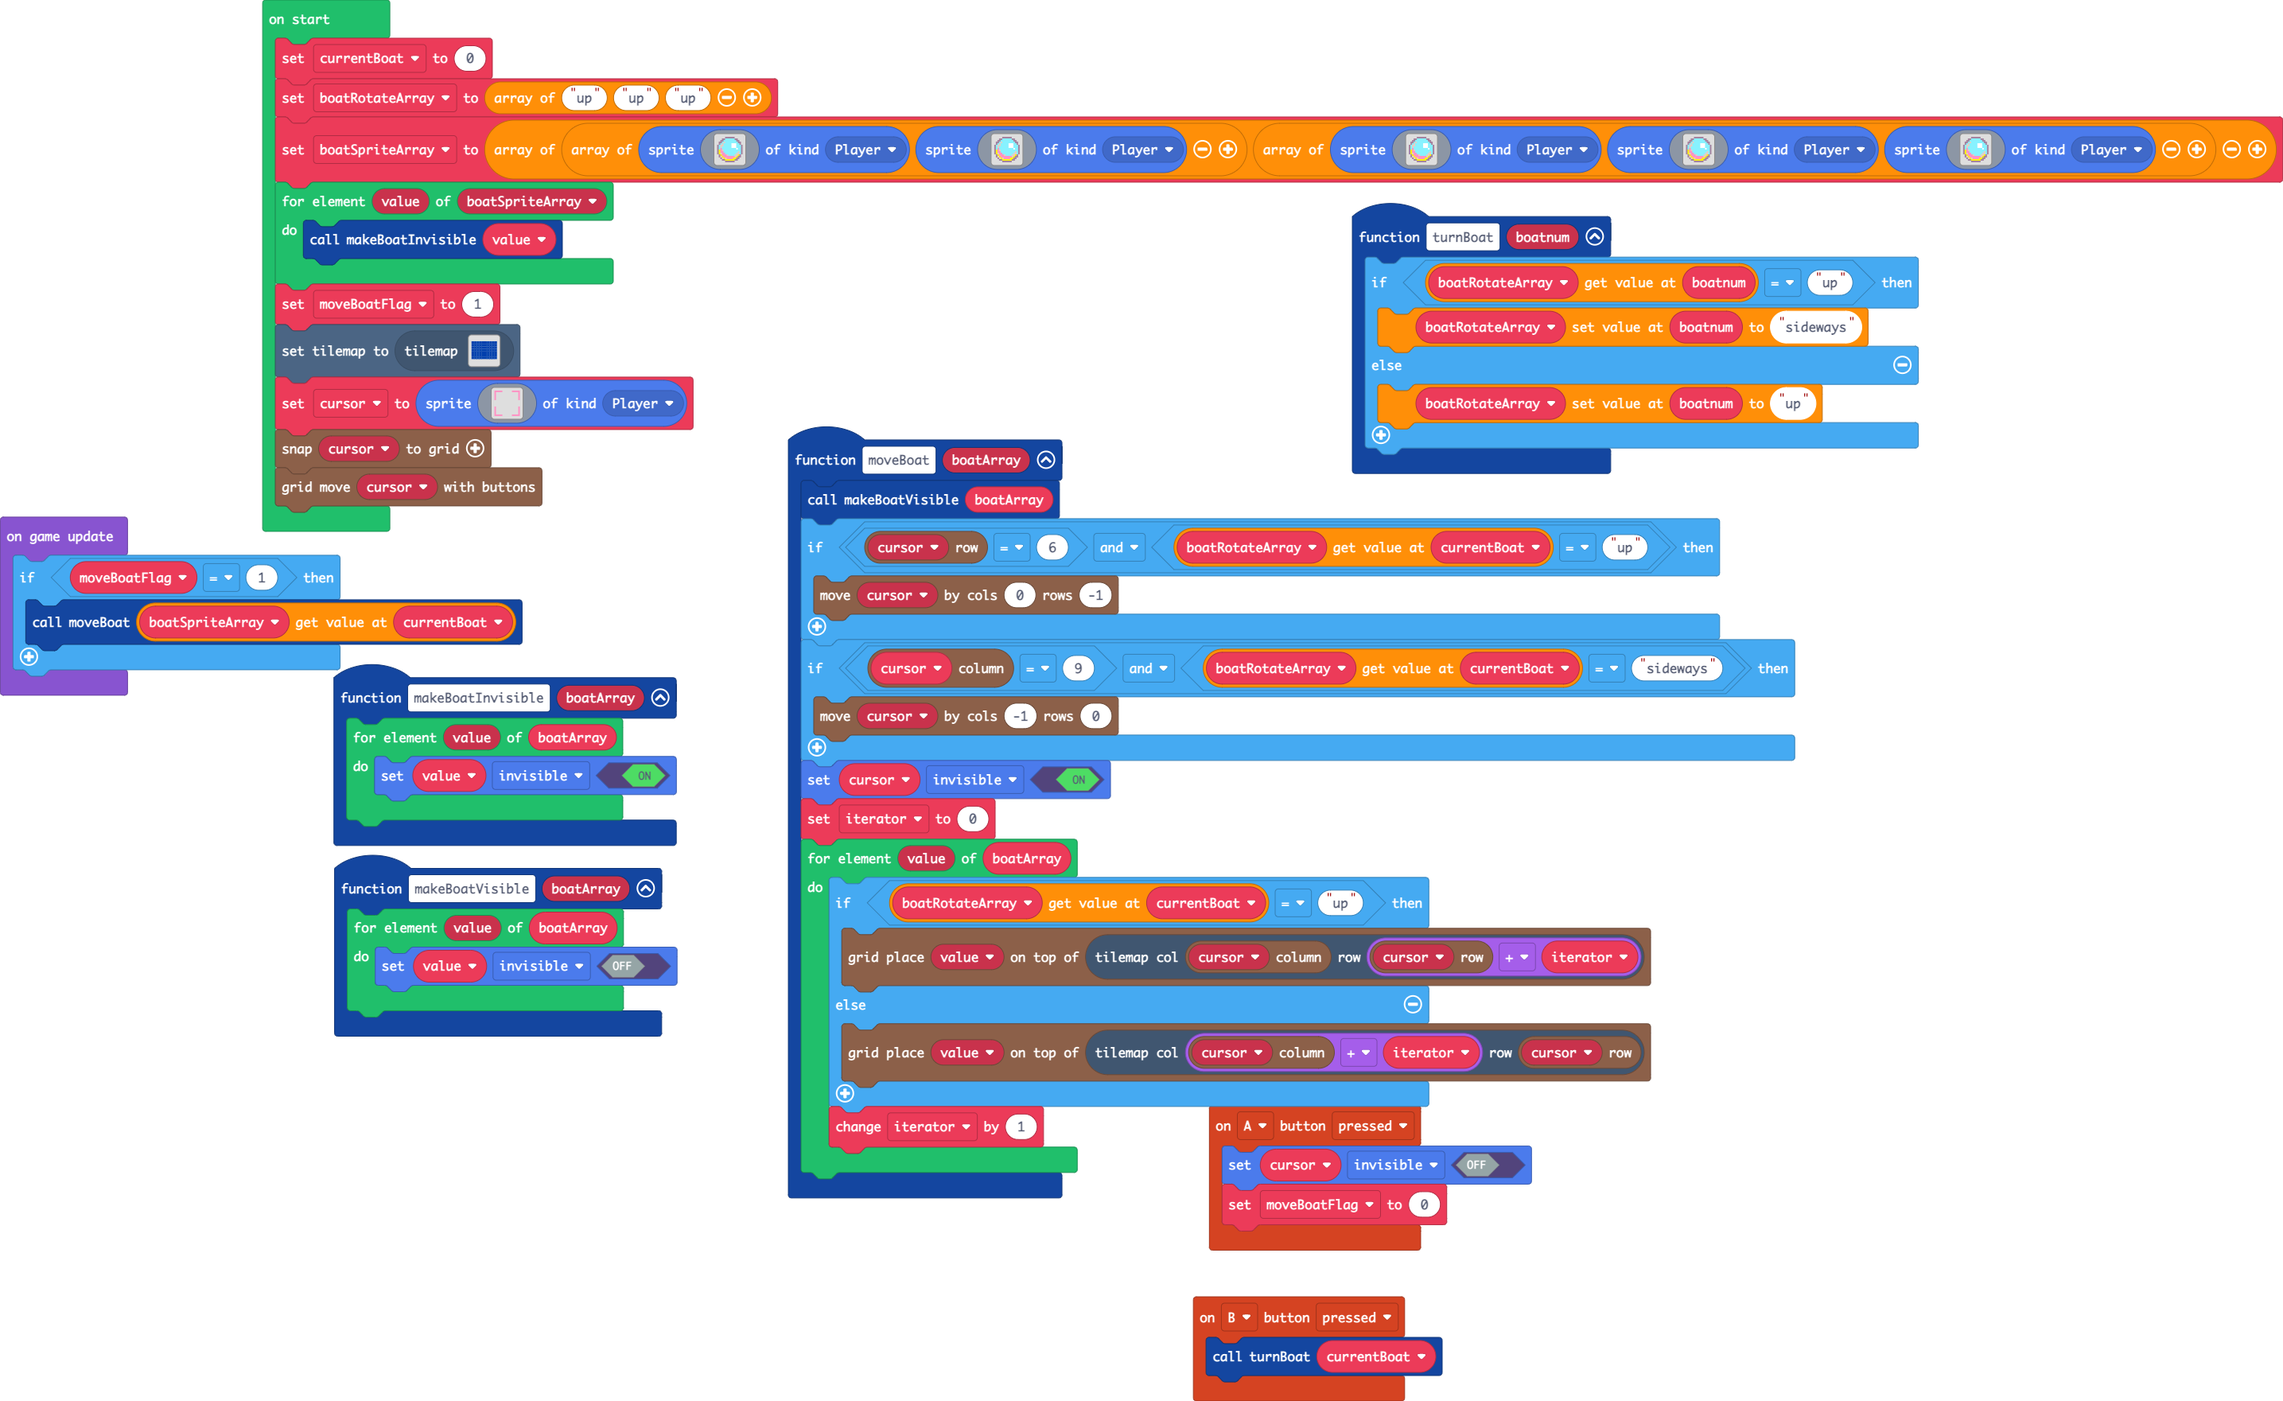
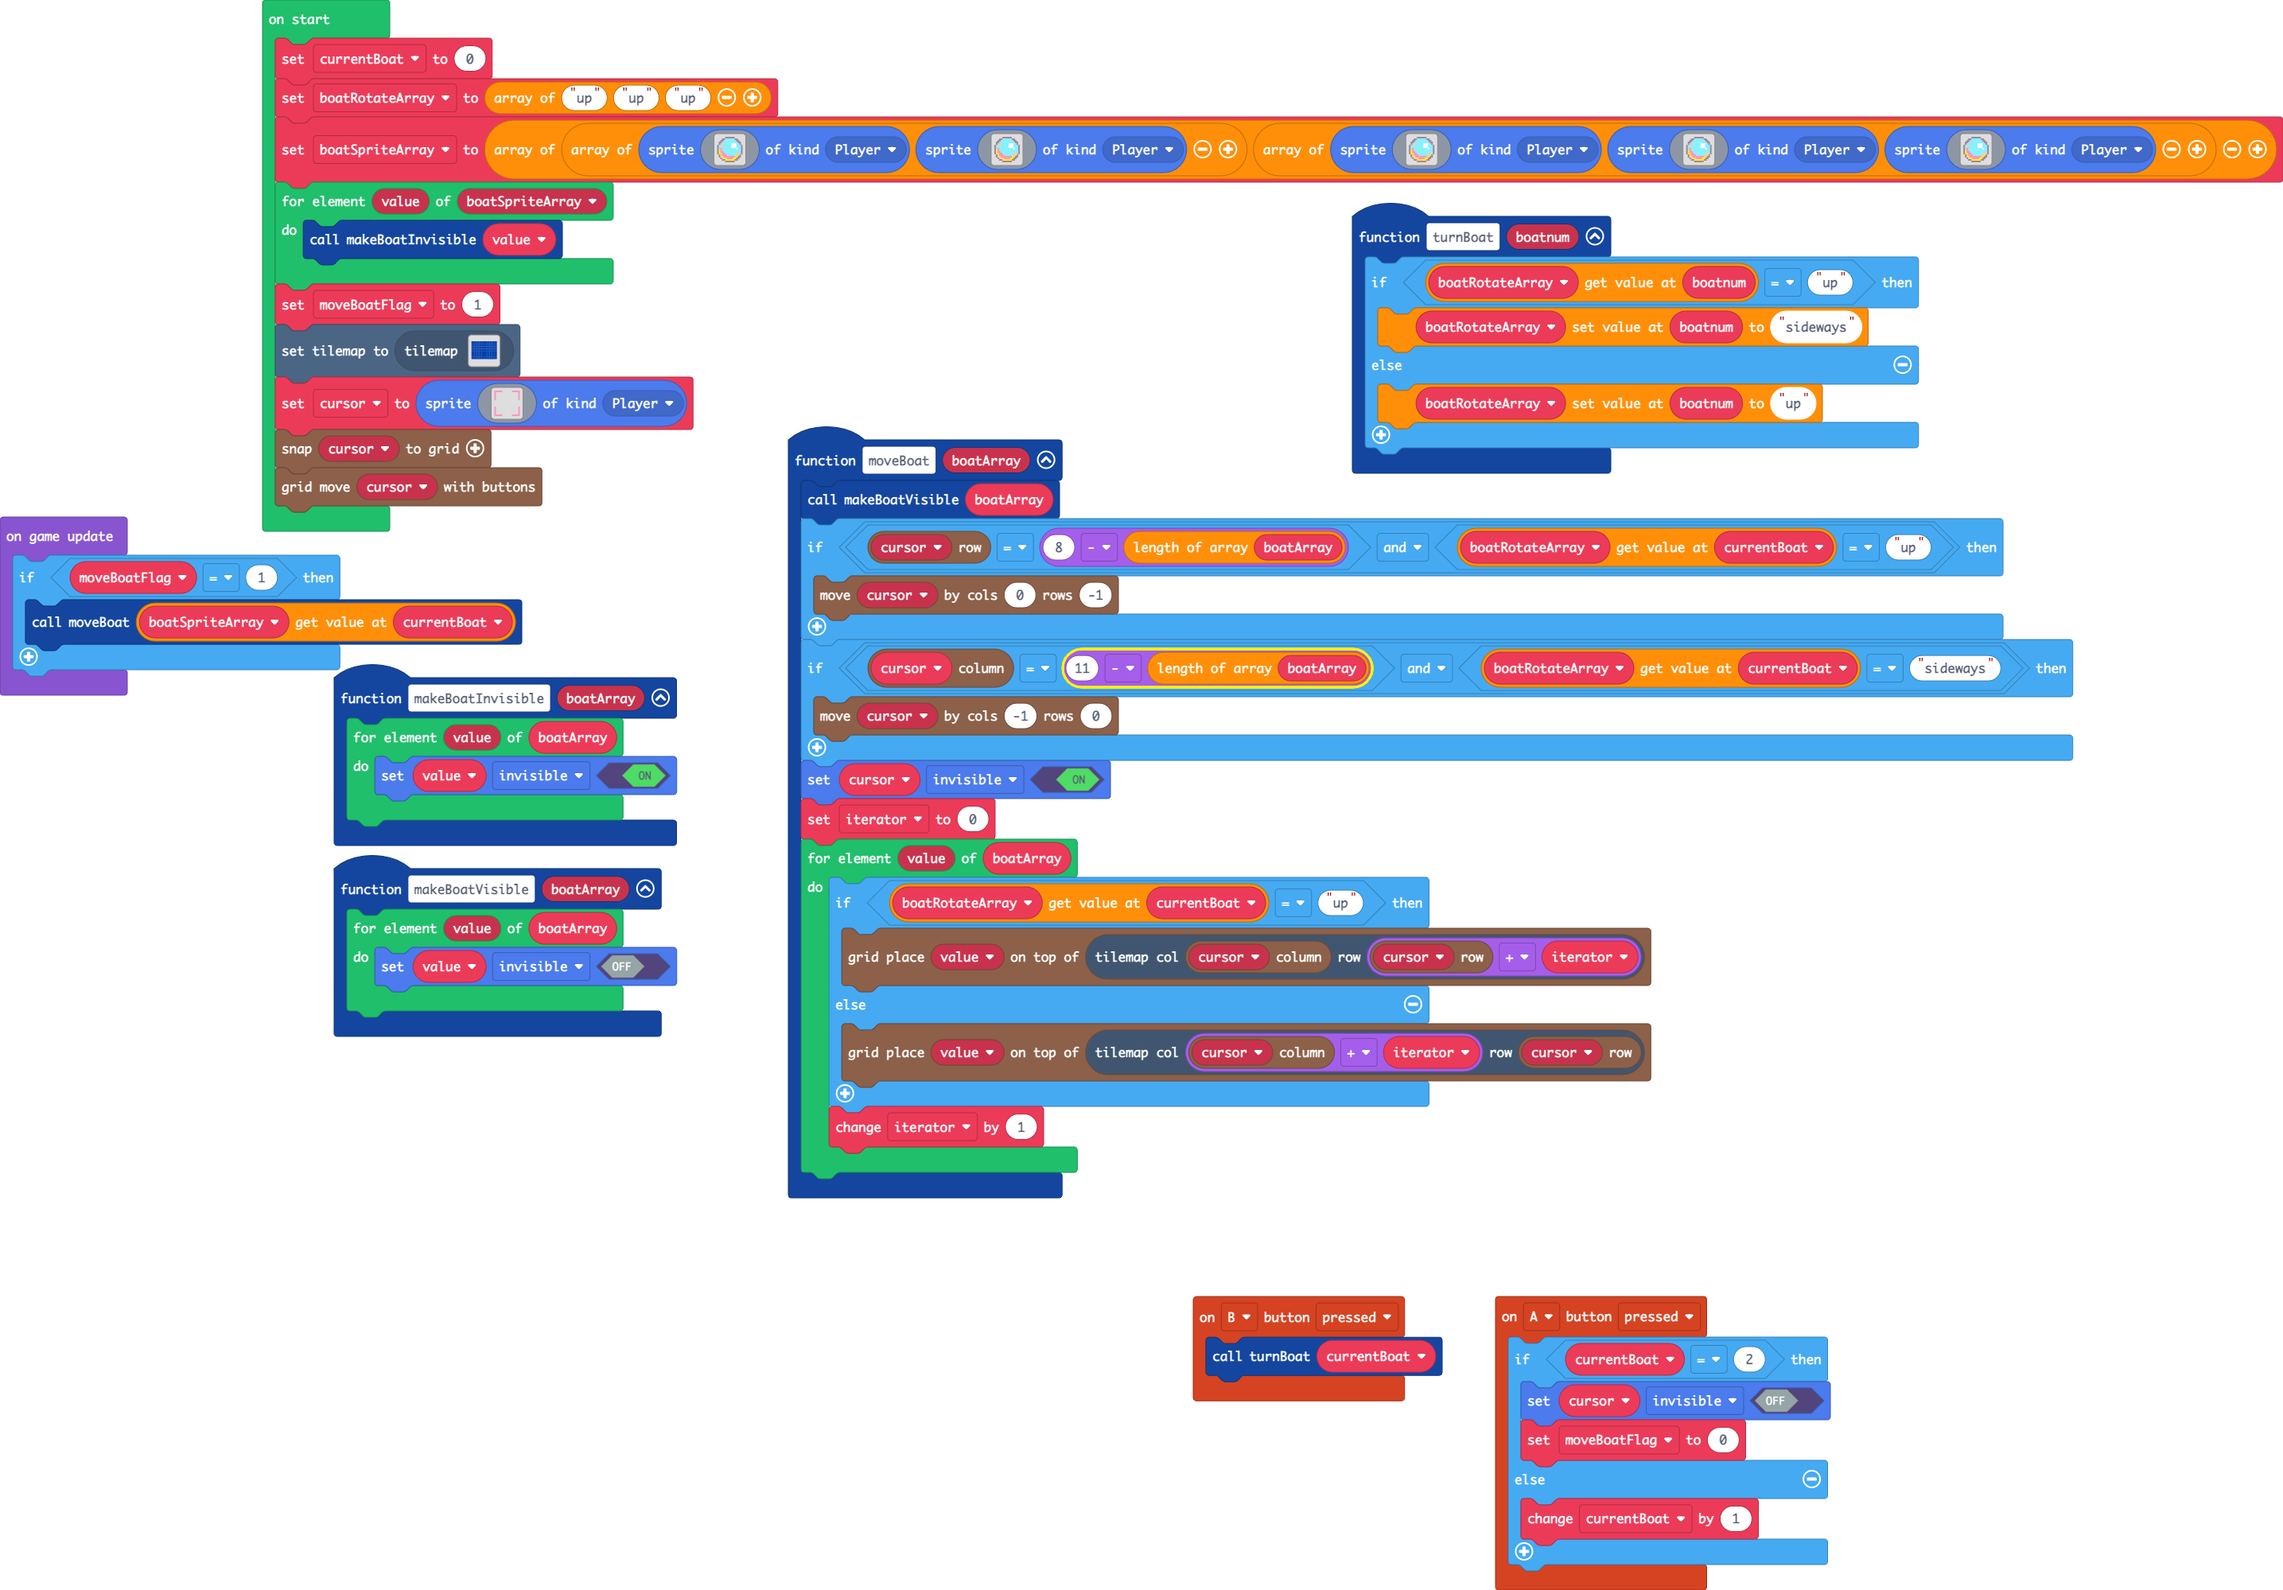
we can move the boat "1"

diff --git a/main.ts b/main.ts
@@ -7,15 +7,19 @@ function makeBoatVisible (boatArray: Sprite[]) {
     }
 }
 controller.A.onEvent(ControllerButtonEvent.Pressed, function () {
-    cursor.setFlag(SpriteFlag.Invisible, false)
-    moveBoatFlag = 0
+    if (currentBoat == 2) {
+        cursor.setFlag(SpriteFlag.Invisible, false)
+        moveBoatFlag = 0
+    } else {
+        currentBoat += 1
+    }
 })
 function moveBoat (boatArray: any[]) {
     makeBoatVisible(boatArray)
-    if (grid.spriteRow(cursor) == 6 && boatRotateArray[currentBoat] == "up") {
+    if (grid.spriteRow(cursor) == 8 - boatArray.length && boatRotateArray[currentBoat] == "up") {
         grid.move(cursor, 0, -1)
     }
-    if (grid.spriteCol(cursor) == 9 && boatRotateArray[currentBoat] == "sideways") {
+    if (grid.spriteCol(cursor) == 11 - boatArray.length && boatRotateArray[currentBoat] == "sideways") {
         grid.move(cursor, -1, 0)
     }
     cursor.setFlag(SpriteFlag.Invisible, true)
